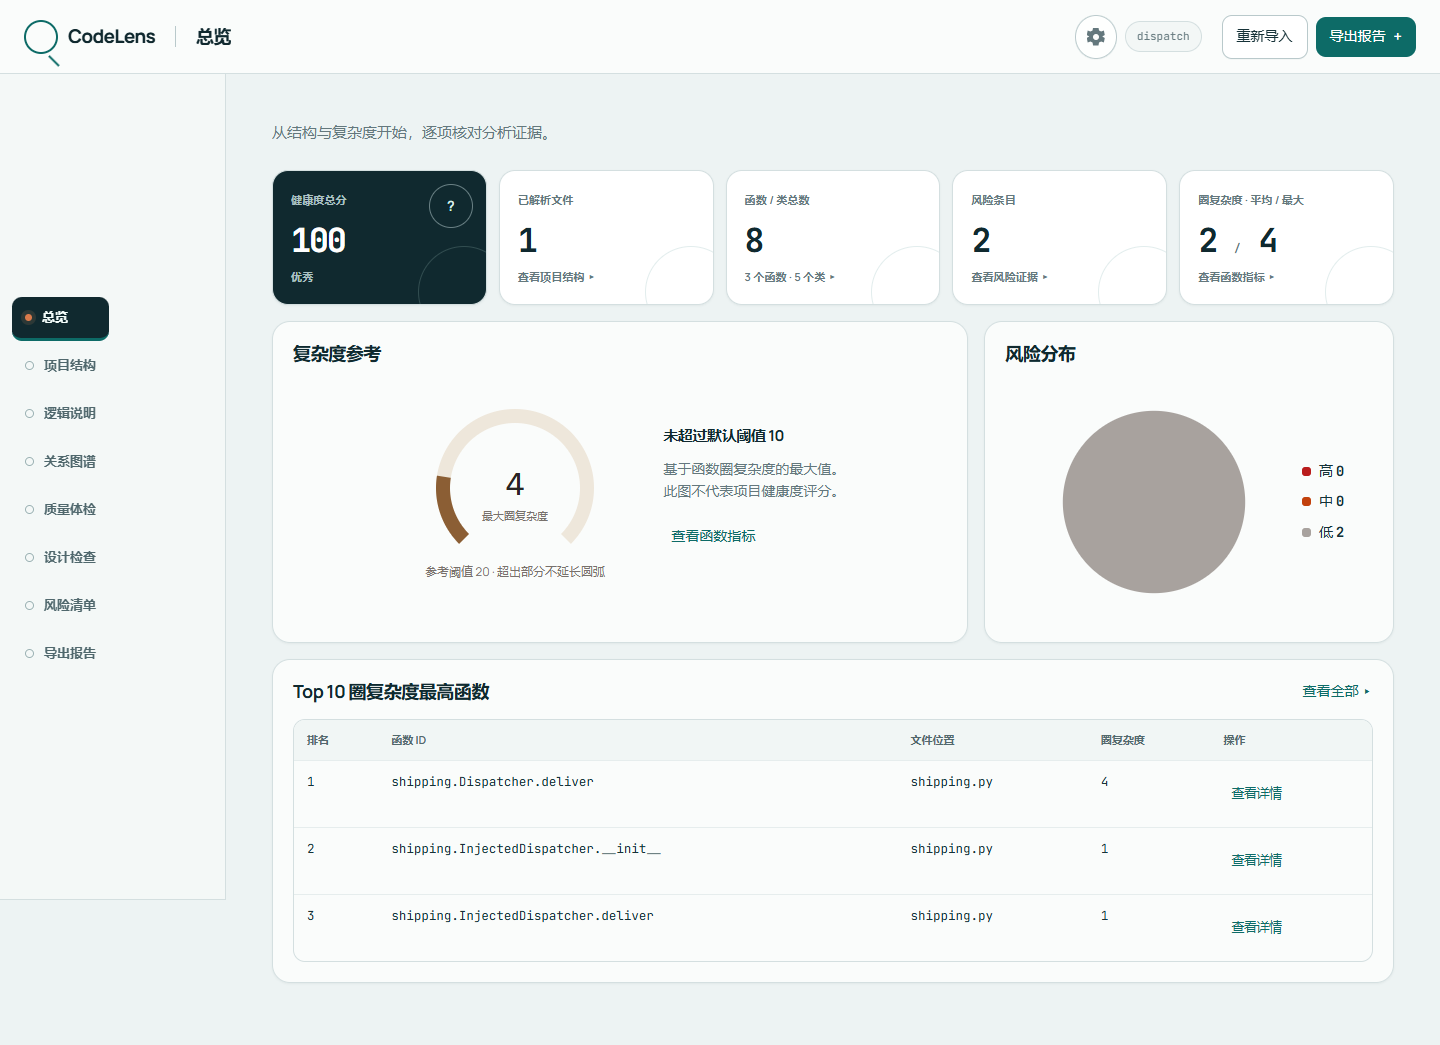
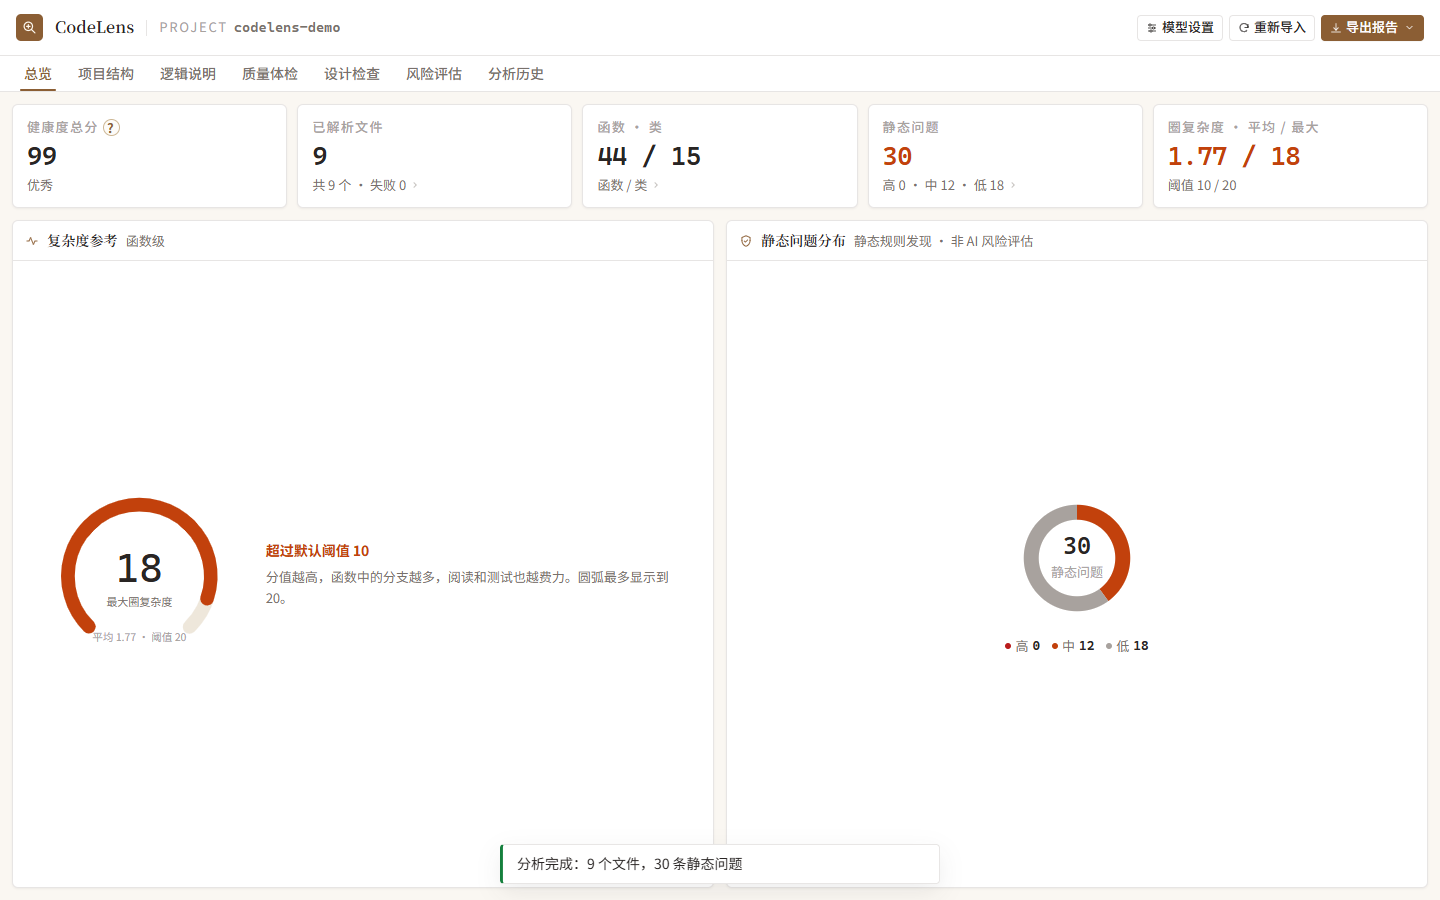
docs: 更新答辩幻灯片与界面截图

diff --git a/docs/slides/slides.md b/docs/slides/slides.md
@@ -9,6 +9,8 @@ title: CodeLens 项目答辩
 
 Make Code Visible · 【光圈】 · 2026 年 11 月
 
+实现说明涵盖本机工作台与当前工作区的网页同步版。
+
 ---
 
 ## 一、产品使命、口号与策略
@@ -30,6 +32,8 @@ Make Code Visible · 【光圈】 · 2026 年 11 月
 > 对于**使用 AI 编码的开发者与评审者**，CodeLens 是一套**支持本机运行与浏览器访问的代码分析工作台**。导入项目可查看语句级逻辑、结构图、质量指标和静态风险。启用模型后，可按项目、目录或文件发起 AI 审查，并通过源码引用复核报告。
 
 **解决的问题**：AI 代码能跑，但逻辑不透明、假设多、风险难定位，评审只能逐行读。
+
+![当前本机工作台的项目导入页](./public/import-ui.png)
 
 ---
 
@@ -81,12 +85,13 @@ flowchart LR
     SYNC --> DB[("SQLite 账号历史")]
 ```
 
+网页历史由同步版提供。纯浏览器版使用 IndexedDB 保存本地历史。
 
 ---
 
 ## 七、智能体技术设计 · 总览
 
-<img src="/agent-flow.png" class="mx-auto" style="width:92%" />
+![智能体从静态分析到报告输出的流程图](./public/agent-flow.png)
 
 图示概括本地 Skill 与分批审查的共同步骤。**静态事实与模型表述分开处理**。
 
@@ -122,7 +127,7 @@ flowchart LR
 **证据与输出校验**
 
 - 本机 Skill 校验信封、条目和证据引用，过滤无法解析的条目。
-- 分批审查校验结构化输出与源码引用，对部分格式或输出超限错误重试。
+- 分批审查校验输出结构和引用的文件与行号范围。部分格式或输出超限错误会重试。
 - 分批审查失败时显示错误，静态结果继续可用。
 
 ---
@@ -151,11 +156,17 @@ MEM -.续跑复用.-> R
 
 | 项 | 设计 |
 |---|---|
-| 数据库 | 本机 SQLite 保存项目历史与检查点，网页版 SQLite 按账号保存记录 |
-| 接口 | 本机 `/api/analyze`、`/api/explain`、`/api/review`（流式），网页 `/api/sync/` |
+| 数据库 | 本机 SQLite 保存项目历史与检查点，网页同步版用服务端 SQLite 按账号保存记录 |
+| 接口 | 本机 `/api/analyze`、`/api/review`（流式）及兼容接口 `/api/explain`，网页同步版使用 `/api/sync/` |
 | 前端 | React + Vite + Tailwind，导入项目后查看报告并回查源码 |
 
 本机接口校验 Host、Origin 和 Token。启用网页 AI 后，浏览器直接请求模型服务。历史与检查点通过 HTTPS 按账号同步。
+
+| 项目总览 | AI 风险评估 |
+| --- | --- |
+| ![当前项目总览，显示演示项目的静态分析结果](./public/overview.png) | ![当前风险评估页，等待逻辑解读完成](./public/risk-list.png) |
+
+截图来自本机工作台导入 `codelens-demo` 后的实测。总览中的 30 条为静态问题，AI 风险评估在逻辑解读完成后生成。
 
 ---
 
@@ -178,6 +189,20 @@ MEM -.续跑复用.-> R
 
 **提交历史**　本地 `HEAD` 可达 **84 个提交**，`git shortlog -s HEAD` 统计到 **5 个作者名**。
 
+| Pylint 历史检查截图 | GitHub Pulse 历史截图 |
+| --- | --- |
+| ![IDE 的 Pylint 与类型检查截图](./public/pylint.png) | ![GitHub Pulse 历史截图](./public/pulse.png) |
+
+---
+
+## 十三、代码统计截图
+
+以下是原答辩稿的前后端统计截图。上一页的数字使用修订时的工作区统计口径。
+
+| 后端代码统计 | 前端代码统计 |
+| --- | --- |
+| ![后端代码统计截图](./public/counter-backend.png) | ![前端代码统计截图](./public/counter-frontend.png) |
+
 ---
 
 ## 十四、参考与来源
@@ -185,7 +210,7 @@ MEM -.续跑复用.-> R
 - Python `ast` / `tokenize` — Python 官方标准库
 - 分析设计与验证见 `docs/software/quality-evaluation.md`
 - 工作台与审查见 `docs/software/local-workbench.md`、`ai-logic-explanation.md`
-- 浏览器运行与账号历史同步见 `docs/deployment.md`
+- 浏览器运行与账号历史同步见当前工作区的 `docs/deployment.md`
 - 需求与用户场景见 `docs/requirements/srs.md`、`user-stories.md`
 
 ---
